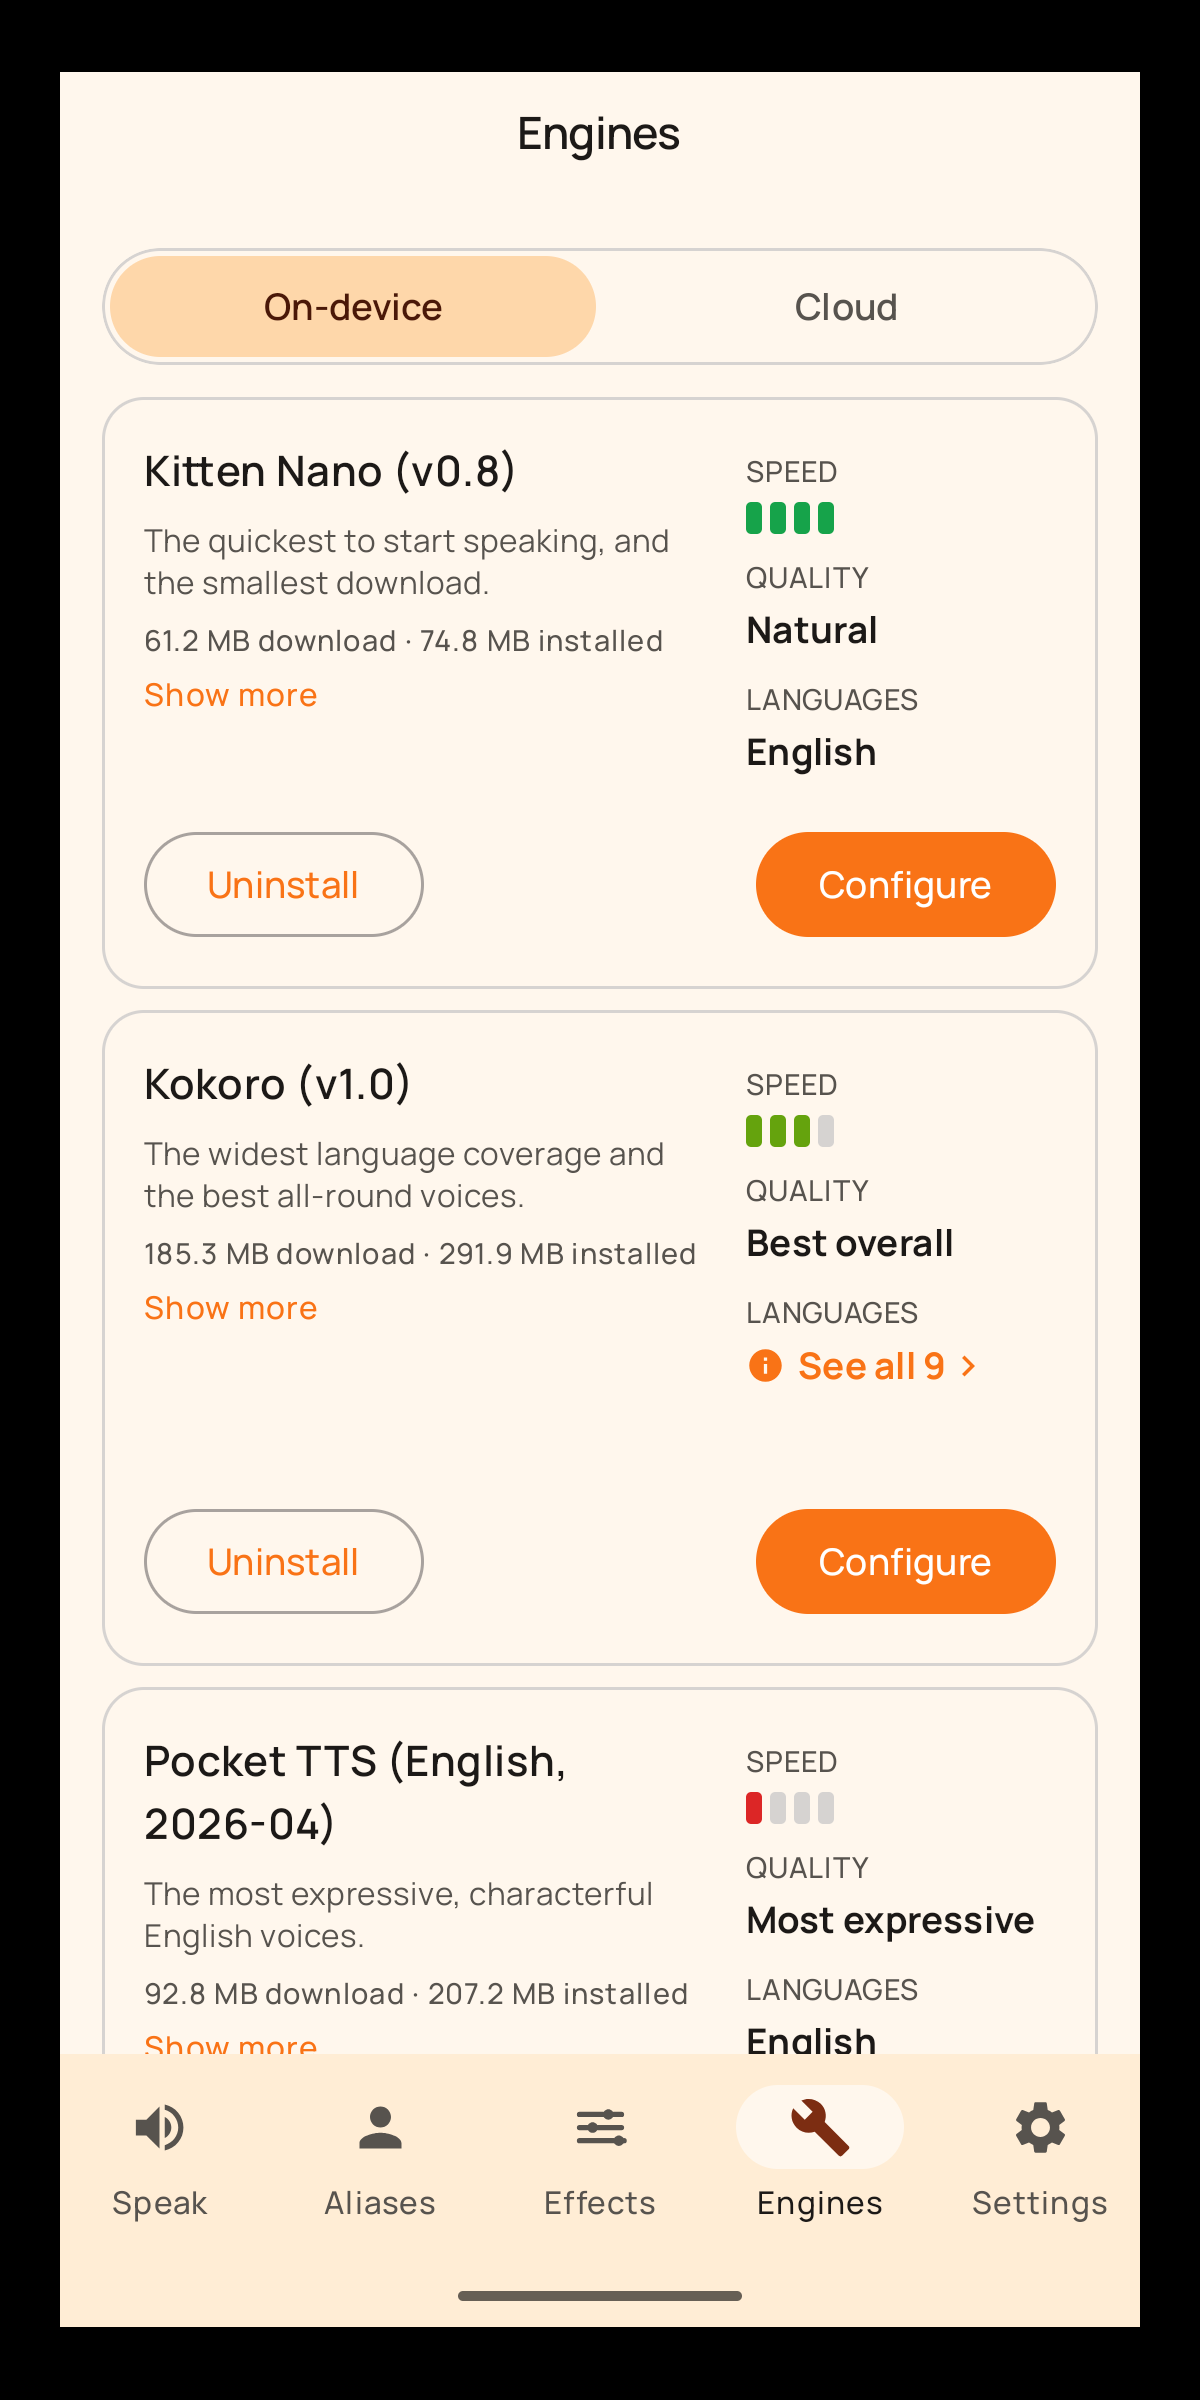
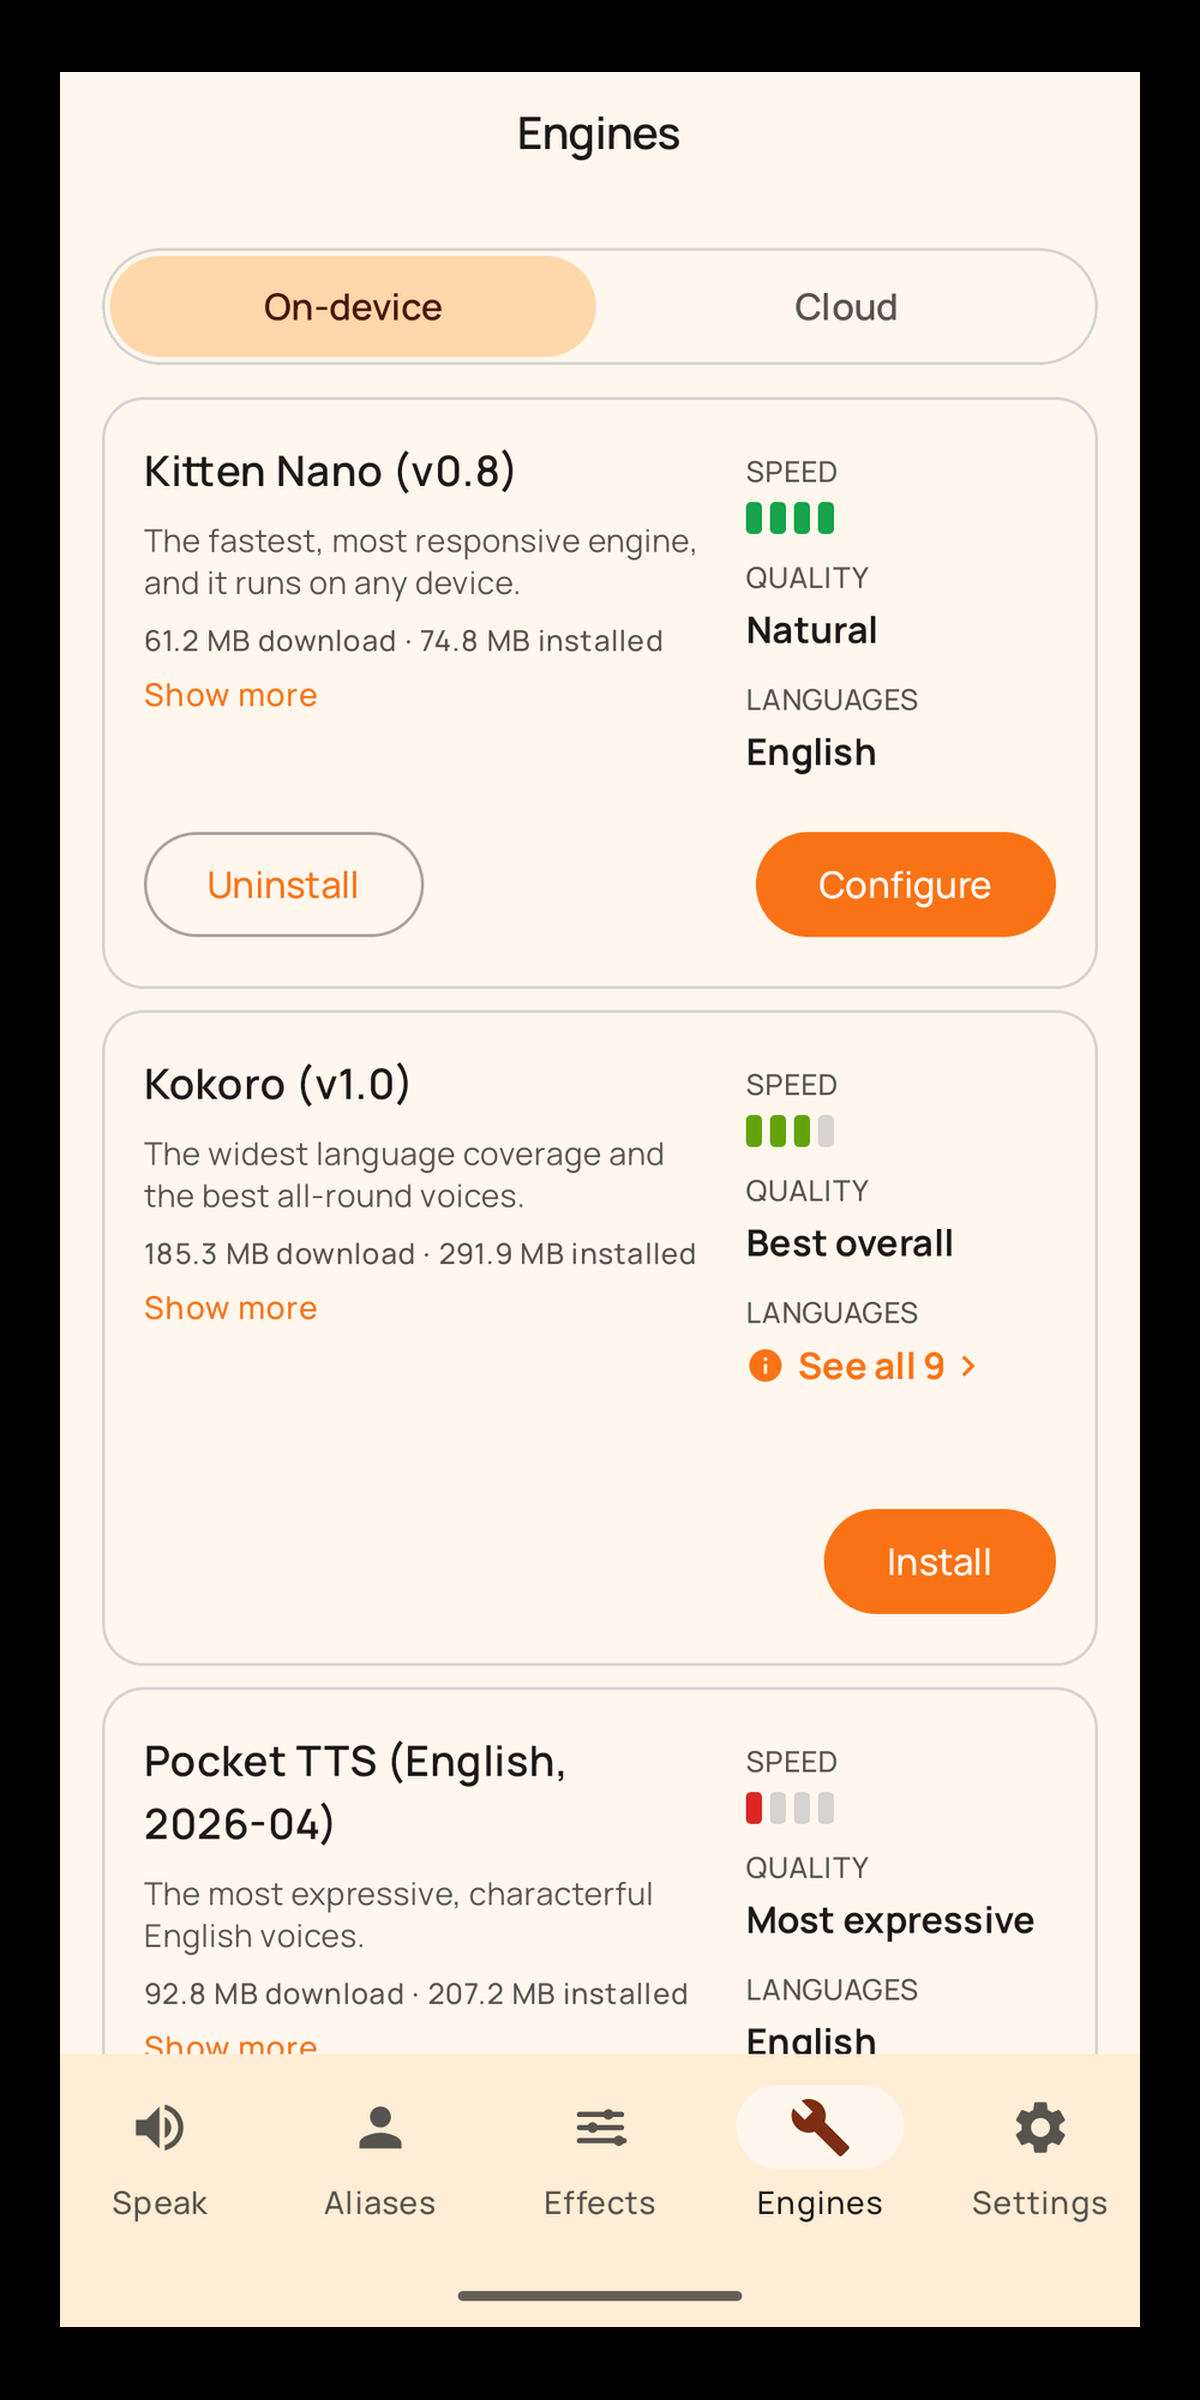
docs(release): F-Droid listing lab + 07-engines reshoot (styled)
Mock f-droid.org listing at docs/release/fdroid-listing-lab.html:
fastlane copy rendered in place, screenshot keeper/order picker
(localStorage), proposed multilingual+auto-detect section toggle,
summary char count. 07-engines restyled from Max's 2026-08-09 reshoot
(chat-paste 900x2000 upscaled — replace with the original 1080x2400
before shipping the set).

Changed region(s): [[0.1233, 0.2188, 0.555, 0.25], [0.6167, 0.625, 0.8325, 0.6875], [0.185, 0.625, 0.3083, 0.6562]]

diff --git a/docs/release/fdroid-listing-lab.html b/docs/release/fdroid-listing-lab.html
@@ -1,0 +1,293 @@
+<!DOCTYPE html>
+<html lang="en">
+<head>
+<meta charset="utf-8">
+<meta name="viewport" content="width=device-width,initial-scale=1">
+<title>Marmalade TTS — F-Droid Listing Lab</title>
+<link rel="stylesheet" href="/_assets/lab.css">
+<style>
+/* ---- page-specific: the F-Droid site mock is a light island ---- */
+.mockwrap{max-width:1060px;margin:0 auto;padding:0 28px}
+.fd{background:#fff;color:#212121;border-radius:12px;overflow:hidden;
+  border:1px solid var(--line);box-shadow:0 8px 40px rgba(0,0,0,.45);
+  font:15.5px/1.55 Roboto,system-ui,sans-serif}
+.fd a{color:#1a6dbb;text-decoration:none}
+.fd-topbar{background:#1a4469;color:#fff;padding:12px 22px;display:flex;
+  align-items:center;gap:12px;font-size:16px}
+.fd-topbar .fdlogo{width:26px;height:26px;border-radius:5px;
+  background:#8ab000 url() center/cover;display:inline-flex;align-items:center;
+  justify-content:center;font-weight:700;color:#fff;font-size:15px}
+.fd-head{display:flex;gap:20px;padding:26px 26px 18px;align-items:flex-start}
+.fd-head img{width:96px;height:96px;border-radius:18px;flex:none}
+.fd-head h2{margin:0 0 4px;font-size:26px;font-weight:500;color:#111}
+.fd-summary{color:#444;font-size:16px;margin:0}
+.fd-badges{margin-top:10px;display:flex;gap:8px;flex-wrap:wrap}
+.fd-badge{font-size:12px;padding:3px 10px;border-radius:999px;
+  background:#e8f0e8;color:#33691e;border:1px solid #c5d9c5}
+.fd-badge.lic{background:#e9eef5;color:#1a4469;border-color:#c9d6e4}
+.fd-dl{margin-left:auto;flex:none}
+.fd-dl .btn-dl{display:inline-block;background:#8ab000;color:#fff;
+  padding:10px 22px;border-radius:6px;font-weight:600;font-size:15px}
+.fd-shots{display:flex;gap:12px;overflow-x:auto;padding:6px 26px 18px;
+  scrollbar-width:thin}
+.fd-shots img{height:340px;border-radius:10px;border:1px solid #ddd;flex:none}
+.fd-desc{padding:6px 26px 10px;max-width:760px}
+.fd-desc p{margin:0 0 14px}
+.fd-desc p.caps{font-weight:600;color:#1a4469;margin-bottom:4px;
+  letter-spacing:.02em}
+.fd-desc p.proposed{background:#fff7e0;border-left:4px solid #f9a825;
+  padding:8px 12px;border-radius:0 6px 6px 0}
+.fd-meta{border-top:1px solid #e5e5e5;margin-top:14px;padding:18px 26px 24px;
+  display:grid;grid-template-columns:repeat(auto-fit,minmax(220px,1fr));
+  gap:14px;font-size:14px;color:#444}
+.fd-meta b{display:block;color:#111;font-weight:600;margin-bottom:2px}
+/* ---- picker ---- */
+.shotgrid{display:grid;grid-template-columns:repeat(auto-fill,minmax(170px,1fr));
+  gap:16px;margin-top:14px}
+.shot{background:var(--panel);border:1px solid var(--line);border-radius:10px;
+  padding:10px;text-align:center}
+.shot img{width:100%;border-radius:6px;cursor:pointer;opacity:.35;
+  transition:opacity .15s}
+.shot.on img{opacity:1;outline:2px solid var(--orange)}
+.shot .cap{font-size:13.5px;color:var(--dim);margin:8px 0 6px;line-height:1.3}
+.shot .ord{font-size:13px;color:var(--peach);min-height:18px}
+.shot .mv{display:flex;justify-content:center;gap:6px}
+.shot .mv button{background:var(--panel2);border:1px solid var(--line);
+  color:var(--ink);border-radius:6px;padding:2px 12px;cursor:pointer;font-size:14px}
+.shot.off .mv{visibility:hidden}
+.count-ok{color:var(--ok)} .count-warn{color:var(--warn)}
+.togglerow{display:flex;gap:10px;align-items:center;margin:10px 0}
+</style>
+</head>
+<body>
+<header>
+  <h1>Marmalade TTS — <span>F-Droid Listing Lab</span></h1>
+  <div class="sub">Mock of the f-droid.org listing · pick screenshot keepers + order · sign off the English copy (G1 + G5)</div>
+</header>
+
+<main style="max-width:1120px;margin:0 auto;padding:26px 0 60px">
+
+<section class="mockwrap">
+  <h2 class="sec">The listing, as F-Droid will show it</h2>
+  <p class="lede">Everything below the dark shell is a faithful mock of an
+  f-droid.org app page: your fastlane texts, the current icon, and the styled
+  screenshots in your chosen order. The screenshot strip and description update
+  live as you change the controls further down.</p>
+
+  <div class="togglerow">
+    <input type="checkbox" id="proposed" checked>
+    <label for="proposed">Include the <b>proposed</b> multilingual + auto-detect
+    section (highlighted amber in the description — draft text, needs your
+    sign-off; it is <b>not</b> in fastlane yet)</label>
+  </div>
+
+  <div class="fd">
+    <div class="fd-topbar"><span class="fdlogo">f</span> F-Droid &nbsp;·&nbsp; Free and Open Source Android App Repository</div>
+    <div class="fd-head">
+      <img src="fdroid-assets/icon.png" alt="Marmalade TTS icon">
+      <div>
+        <h2>Marmalade TTS</h2>
+        <p class="fd-summary">Offline neural text-to-speech engine for your whole device. No cloud.</p>
+        <div class="fd-badges">
+          <span class="fd-badge lic">GPL-3.0-or-later</span>
+          <span class="fd-badge">No anti-features</span>
+          <span class="fd-badge">Multimedia</span>
+          <span class="fd-badge">Accessibility</span>
+        </div>
+      </div>
+      <div class="fd-dl"><span class="btn-dl">Download APK 1.0.0</span></div>
+    </div>
+    <div class="fd-shots" id="mockshots"></div>
+    <div class="fd-desc" id="mockdesc"></div>
+    <div class="fd-meta">
+      <div><b>Version</b>1.0.0 (10000000) — first release</div>
+      <div><b>License</b>APK: GPL-3.0-or-later (espeak-ng built in)<br>Source files: MIT</div>
+      <div><b>Source Code</b><a>github.com/maxwhipw/marmalade-tts-android</a></div>
+      <div><b>Issue Tracker</b><a>…/issues</a></div>
+    </div>
+  </div>
+</section>
+
+<section class="mockwrap" style="margin-top:34px">
+  <h2 class="sec">Screenshot keepers + order (gate G1)</h2>
+  <p class="lede">Click a shot to include/exclude it; ◀ ▶ moves it within the
+  strip. F-Droid shows a horizontal strip — <b>4–8 shots is typical</b>; the
+  first two carry almost all the weight. Your picks persist in this browser.
+  Selected: <b id="selcount"></b></p>
+  <p class="note">07-engines is the <b>reshoot you sent 2026-08-09</b>, styled
+  into the standard treatment (status bar cropped, black 1200×2400 frame). It
+  came through chat at 900×2000 and was upscaled — text is slightly softer than
+  the other ten. Fine for picking; before the shots ship, drop the original
+  1080×2400 PNG into <code>docs/release/screenshots-inbox/</code> (or reconnect
+  ADB) and I'll restyle it losslessly.</p>
+  <div class="shotgrid" id="grid"></div>
+  <p class="note" style="margin-top:14px">When you're happy, say the word and
+  the selected set gets copied in order into
+  <code>fastlane/metadata/android/en-US/images/phoneScreenshots/</code>
+  (numbered 01…N), replacing the five stale ones there now.</p>
+</section>
+
+<section class="mockwrap" style="margin-top:34px">
+  <h2 class="sec">The copy, for sign-off (gate G5, step 1)</h2>
+  <p class="lede">This is the exact public text. Once you approve the English,
+  it gets translated into the 7 other in-app locales as fastlane folders —
+  both land before the 1.0.0 tag (F-Droid needs ≥1 translation for the
+  Latest tab, and fastlane ships from the tag).</p>
+
+  <h3>Title <span class="count-ok">(12 chars — limit 50)</span></h3>
+  <div class="copyblock"><pre>Marmalade TTS</pre></div>
+
+  <h3>Summary <span class="count-ok" id="sumcount"></span></h3>
+  <div class="copyblock"><pre id="sumtext">Offline neural text-to-speech engine for your whole device. No cloud.</pre></div>
+
+  <h3>Full description — current (verbatim from fastlane)</h3>
+  <p class="sub">Rendered in the mock above. Source:
+  <code>fastlane/metadata/android/en-US/full_description.txt</code></p>
+
+  <h3>Proposed addition (NOT in fastlane — your call)</h3>
+  <p class="sub">Inserted after "MULTIPLE ENGINES AND VOICES" when the toggle
+  is on. Per your 2026-08-04 note: name the languages, don't leave "English
+  TTS app" implied — plus the auto-detect feature that shipped since.</p>
+  <div class="copyblock"><pre id="proposedtext">SPEAKS 8 LANGUAGES
+With the Kokoro engine, Marmalade speaks English (US and UK), Spanish, French, Italian, Portuguese (Brazil), Hindi, Japanese, and Mandarin Chinese. It detects the language of each utterance automatically and switches pronunciation on the fly — a Kokoro voice reads Spanish text with Spanish pronunciation without you touching a setting. Kitten and Pocket voices are English-only.</pre></div>
+
+  <h3>Your notes</h3>
+  <textarea class="tracker" data-k="fdl-notes" rows="4"
+    placeholder="Copy edits, screenshot verdicts, anything…"></textarea>
+</section>
+
+</main>
+
+<script>
+const SHOTS = [
+  ["01-speak-light","Speak — light"],
+  ["02-aliases","Aliases + routing"],
+  ["03-kokoro-voices-en","Kokoro voices — EN"],
+  ["04-kokoro-voices-multilang","Kokoro voices — multilang"],
+  ["05-effects","Effects presets"],
+  ["06-effect-editor","Effect editor"],
+  ["07-engines","Engines (reshoot)"],
+  ["08-engines-cloud","Engines — cloud"],
+  ["09-voice-picker","Voice picker"],
+  ["10-speak-dark","Speak — dark"],
+  ["11-speak-dynamic-dark","Speak — dynamic dark"],
+];
+const LSK="fdroid-listing-lab-v1";
+let state = JSON.parse(localStorage.getItem(LSK)||"null")
+  || SHOTS.map(s=>({id:s[0],on:true}));
+// heal state if the shot set changed
+state = state.filter(e=>SHOTS.some(s=>s[0]===e.id));
+SHOTS.forEach(s=>{ if(!state.some(e=>e.id===s[0])) state.push({id:s[0],on:false}); });
+
+const cap = id => SHOTS.find(s=>s[0]===id)[1];
+function save(){ localStorage.setItem(LSK, JSON.stringify(state)); }
+
+function render(){
+  const on = state.filter(e=>e.on);
+  // mock strip
+  document.getElementById("mockshots").innerHTML = on.map(e=>
+    `<img src="screenshots-inbox/styled/${e.id}.png" alt="${cap(e.id)}" title="${cap(e.id)}">`).join("");
+  // picker grid
+  document.getElementById("grid").innerHTML = state.map((e,i)=>{
+    const pos = e.on ? on.findIndex(x=>x.id===e.id)+1 : "";
+    return `<div class="shot ${e.on?'on':'off'}" data-i="${i}">
+      <img src="screenshots-inbox/styled/${e.id}.png" alt="${cap(e.id)}">
+      <div class="cap">${e.id}<br>${cap(e.id)}</div>
+      <div class="ord">${e.on?('position '+pos):'excluded'}</div>
+      <div class="mv"><button data-mv="-1">◀</button><button data-mv="1">▶</button></div>
+    </div>`;}).join("");
+  const n = on.length;
+  const sc = document.getElementById("selcount");
+  sc.textContent = n + " of " + SHOTS.length;
+  sc.className = (n>=4 && n<=8) ? "count-ok" : "count-warn";
+  renderDesc();
+  save();
+}
+
+const FULLDESC = `Marmalade TTS turns your phone into a private, high-quality text-to-speech engine that works entirely on-device. Register it as your system TTS engine and every app that reads text aloud — your screen reader, e-reader, podcast or article reader, accessibility tools, and AI chat apps — can speak through Marmalade. No cloud, no account, no tracking.
+
+WORKS EVERYWHERE ON YOUR DEVICE
+Marmalade implements Android's standard text-to-speech engine interface, so it's a drop-in replacement for Google or Samsung TTS. Pick it once in Settings and it powers spoken text across your apps.
+
+ACCESSIBLE BY DESIGN
+Marmalade is built for screen-reader users, not just compatible with them. The whole app works with TalkBack: every control is labeled, playback status, errors, and download progress are announced aloud, and every setting is a single clearly described switch. Designed to meet WCAG 2.1 AA, with a high-contrast dark theme that follows your system setting (or can be chosen in Settings). Every feature is free — nothing an assistive-tech user needs sits behind a purchase.
+
+ON-DEVICE NEURAL VOICES
+Speech is synthesized locally using neural voice models. The text you have it read never leaves your phone. The app ships small and bundles no model files: on first launch you choose which engines to install, and each downloads only when you opt in.
+
+MULTIPLE ENGINES AND VOICES
+Choose the trade-off that fits you — a tiny, fast engine that runs on any device, or larger high-quality and multilingual voices. Each engine offers several distinct voices, and the catalog grows over time.
+
+EXPRESSIVE, EMOTION-AWARE SPEECH
+Emoji in your text drive emotional prosody, so the same words can sound cheerful, worried, or calm depending on how you write them — even when the base voice is neutral.
+
+AUDIO EFFECTS
+Apply built-in audio-effect presets (such as cave, robot, and telephone) to give spoken output character.
+
+VOICE ALIASES / PERSONAS
+Save named voice "personas" — a voice plus its preprocessing and effect settings — and switch between them instantly, just like the Marmalade desktop tool.
+
+LONG-FORM READING
+A foreground playback service reads long text reliably, with lock-screen and Bluetooth transport controls and the screen off.
+
+HANDY SHORTCUTS
+Share text to Marmalade from any app, use the system "read selection" action, or speak your clipboard from a Quick Settings tile.
+
+PRIVATE BY DESIGN
+No analytics, no telemetry, no ads, no accounts, and no backend. The only network use is downloading the engine files you choose to install. See the in-app privacy policy for details.
+
+OPEN SOURCE
+Marmalade TTS is open source. The source code is MIT-licensed; the published app includes the espeak-ng phonemizer (built from source) and is therefore distributed under the GPL-3.0-or-later, with complete corresponding source in the project repository. Full license details for every component are shown inside the app.`;
+
+function renderDesc(){
+  const withProposed = document.getElementById("proposed").checked;
+  const proposed = document.getElementById("proposedtext").textContent.trim();
+  let paras = FULLDESC.split(/\n\n/);
+  let html = "";
+  for(const p of paras){
+    const lines = p.split("\n");
+    for(const [j,line] of lines.entries()){
+      const isCaps = line === line.toUpperCase() && /[A-Z]/.test(line) && line.length < 60;
+      html += `<p class="${isCaps?'caps':''}">${line}</p>`;
+    }
+    if(withProposed && p.startsWith("MULTIPLE ENGINES")){
+      for(const [j,line] of proposed.split("\n").entries()){
+        const isCaps = j===0;
+        html += `<p class="proposed ${isCaps?'caps':''}">${line}</p>`;
+      }
+    }
+  }
+  document.getElementById("mockdesc").innerHTML = html;
+}
+
+document.getElementById("grid").addEventListener("click", ev=>{
+  const shot = ev.target.closest(".shot"); if(!shot) return;
+  const i = +shot.dataset.i;
+  const mv = ev.target.closest("button[data-mv]");
+  if(mv){
+    const d = +mv.dataset.mv, j = i+d;
+    if(j<0 || j>=state.length) return;
+    [state[i],state[j]] = [state[j],state[i]];
+  } else if(ev.target.tagName==="IMG"){
+    state[i].on = !state[i].on;
+  } else return;
+  render();
+});
+document.getElementById("proposed").addEventListener("change", renderDesc);
+
+// summary char count
+const sum = document.getElementById("sumtext").textContent;
+const scnt = document.getElementById("sumcount");
+scnt.textContent = `(${sum.length} chars — F-Droid limit 80)`;
+scnt.className = sum.length<=80 ? "count-ok" : "count-warn";
+
+// tracker textareas
+document.querySelectorAll(".tracker").forEach(t=>{
+  t.value = localStorage.getItem("fdl-"+t.dataset.k)||"";
+  t.addEventListener("input", ()=>localStorage.setItem("fdl-"+t.dataset.k, t.value));
+});
+
+render();
+</script>
+</body>
+</html>
